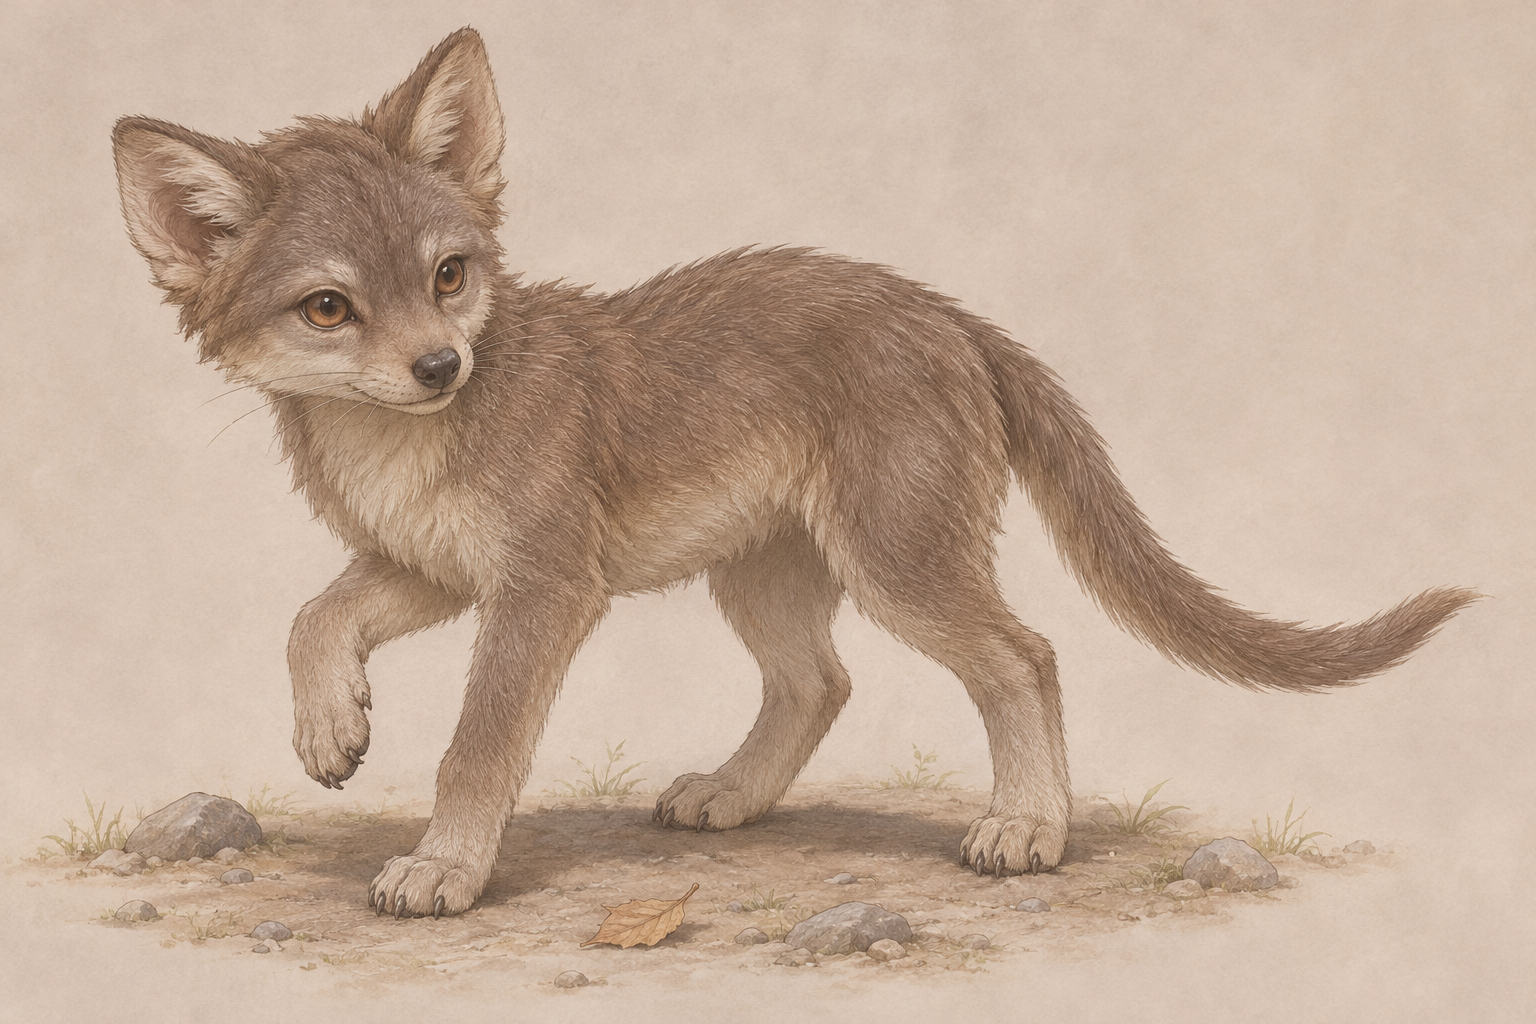
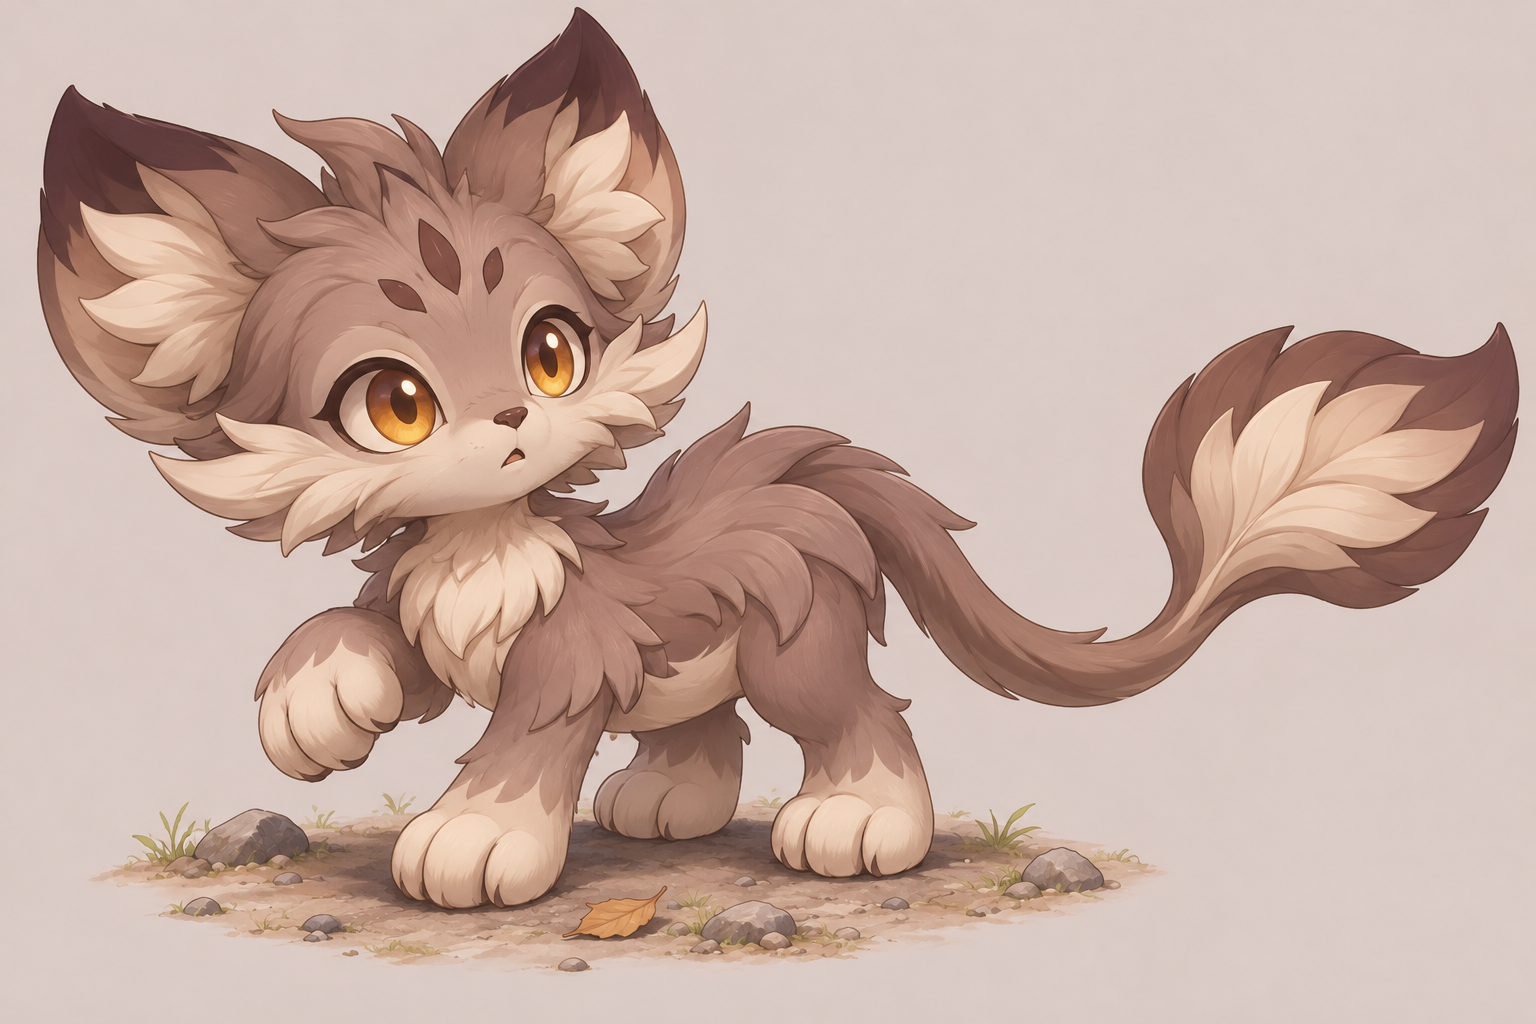
Redesign Ruke with stylized fantasy proportions

diff --git a/fantasy-rpg/WORLD_BIBLE.md b/fantasy-rpg/WORLD_BIBLE.md
@@ -869,3 +869,5 @@
 ### 짐승형 씨앗 개체 루크 · 기본 원화
 - [루크 기본 원화](assets/ruke-basic.png). 작은 네발짐승에 회갈색 짧은 털·둥근 삼각형 귀·짧은 주둥이·긴 꼬리가 있는 시안이다. 강아지와 새끼 여우를 연상시키되 특정 지구 동물로 고정하지 않는다.
 - 짐승형의 기본 출발 형태로 이후 진화가 네발 포유류에 한정되지 않는다. 구체 크기·성급·먹이·성격 등은 앞선 시안이며 원화 생성만으로 추가 확정하지 않는다. 설치본 도감·전투에는 아직 연결하지 않았다.
+
+- 루크 원화 수정: 사용자는 현실적인 동물 비주얼보다 판타지스러운 외형을 요청했고 현실 비율에 얽매일 필요가 없다고 지정했다. 큰 머리·귀·발, 짧은 몸통, 황금빛 눈, 이마 무늬와 잎 모양 꼬리 끝의 새 시안으로 기본 원화를 교체했다. 사실적 털 묘사보다 덩어리와 실루엣을 강조하며 추가 능력·진화 단계는 부여하지 않는다.
